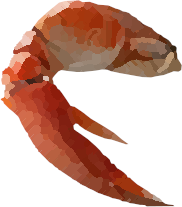
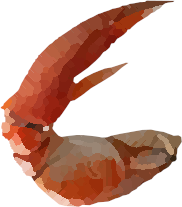
Transformations Animation Demo pt. 3

diff --git a/ImmersiveEngine/src/Main.cpp b/ImmersiveEngine/src/Main.cpp
@@ -54,10 +54,10 @@ GLfloat body[] =
 };
 GLfloat arm[] =
 {
-	-0.25f, 0.0f, 0.0f,	0.0f, 0.0f, 0.0f,	0.0f, 0.0f,
-	-0.25f, 0.5f, 0.0f,	0.0f, 0.0f,	0.0f,	0.0f, 1.0f,
-	0.25f, 0.0f, 0.0f,	0.0f, 0.0f,	0.0f,	1.0f, 0.0f,
-	0.25f, 0.5f, 0.0f,	0.0f, 0.0f,	0.0f,	1.0f, 1.0f,
+	-0.25f, -0.5f, 0.0f,	0.0f, 0.0f, 0.0f,	0.0f, 0.0f,
+	-0.25f, 0.0f, 0.0f,	0.0f, 0.0f,	0.0f,	0.0f, 1.0f,
+	0.25f, -0.5f, 0.0f,	0.0f, 0.0f,	0.0f,	1.0f, 0.0f,
+	0.25f, 0.0f, 0.0f,	0.0f, 0.0f,	0.0f,	1.0f, 1.0f,
 };
 
 GLuint rectangle[] =
@@ -112,6 +112,7 @@ int main()
     //std::cout << objA.toString();
 
 	Present crabBod(body, sizeof(body), rectangle, sizeof(rectangle));
+	crabBod.space.translate(Engine::Math::Vector3(0, -1, 0));
 	crabBod.setTexture("crab-body.png", GL_RGBA);
 
 	Present crabArmA(arm, sizeof(arm), rectangle, sizeof(rectangle));
@@ -119,11 +120,15 @@ int main()
 	Present crabArmB(arm, sizeof(arm), rectangle, sizeof(rectangle));
 	crabArmB.setTexture("crab-leg1.png", GL_RGBA);
 	
+	crabArmA.space.pivotOffset = Engine::Math::Vector3(0.125f, -0.25f, 0);
 	crabArmA.space.dialate(0.5f);
-	crabArmA.space.translate(Engine::Math::Vector2(-0.25f, 0.03f));
+	crabArmA.space.translate(Engine::Math::Vector2(-0.25f, -0.6f));
+	crabArmA.space.updateTransforms(shaderProgram);
 
+	crabArmB.space.pivotOffset = Engine::Math::Vector3(-0.125f, -0.25f, 0);
 	crabArmB.space.dialate(0.5f);
-	crabArmB.space.translate(Engine::Math::Vector2(0.25f, 0.03f));
+	crabArmB.space.translate(Engine::Math::Vector2(0.25f, -0.6f));
+	crabArmB.space.updateTransforms(shaderProgram);
 
 	while (!glfwWindowShouldClose(window))
 	{
@@ -134,22 +139,22 @@ int main()
 		glClear(GL_COLOR_BUFFER_BIT);
 		
         shaderProgram.Activate();
-        
+
         //objA.space.updateTransforms(shaderProgram);
         //objA.draw(shaderProgram);
 		
 		crabBod.space.updateTransforms(shaderProgram);
 		crabBod.draw(shaderProgram);
         
-		if (glfwGetKey(window, GLFW_KEY_D) == GLFW_PRESS)
-		{
-			crabArmA.space.rotate(0.1f);
-			crabArmB.space.rotate(0.1f);
-		}
-		else if (glfwGetKey(window, GLFW_KEY_A) == GLFW_PRESS)
+		if (glfwGetKey(window, GLFW_KEY_D) == GLFW_PRESS && crabArmA.space.orientation.z > -35)
 		{
 			crabArmA.space.rotate(-0.1f);
 			crabArmB.space.rotate(-0.1f);
+		}
+		else if (glfwGetKey(window, GLFW_KEY_A) == GLFW_PRESS && crabArmA.space.orientation.z < 35)
+		{
+			crabArmA.space.rotate(0.1f);
+			crabArmB.space.rotate(0.1f);
 		}
 
 		crabArmA.space.updateTransforms(shaderProgram);

diff --git a/ImmersiveEngine/src/Objects/Present.cpp b/ImmersiveEngine/src/Objects/Present.cpp
@@ -125,13 +125,17 @@ void Present::Space::updateTransforms(Shader shaderProgram)
 {
     m_matrix = glm::mat4(1.0f);
 
-    m_matrix = glm::translate(m_matrix, glm::vec3(position.x, position.y, position.z));
+    m_matrix = glm::translate(m_matrix, glm::vec3(position.x, position.y, position.z)); // Move x, y, z
     
-    m_matrix = glm::rotate(m_matrix, -glm::radians(orientation.x), glm::vec3(1.0f, 0.0f, 0.0f));
-    m_matrix = glm::rotate(m_matrix, -glm::radians(orientation.y), glm::vec3(0.0f, 1.0f, 0.0f));
-    m_matrix = glm::rotate(m_matrix, -glm::radians(orientation.z), glm::vec3(0.0f, 0.0f, 1.0f));
+    m_matrix = glm::translate(m_matrix, glm::vec3(pivotOffset.x, pivotOffset.y, pivotOffset.z)); // Apply rotation offset
 
-    m_matrix = glm::scale(m_matrix, glm::vec3(scale.x, scale.y, scale.z));
+    m_matrix = glm::rotate(m_matrix, glm::radians(orientation.x), glm::vec3(1.0f, 0.0f, 0.0f)); // Rotate x
+    m_matrix = glm::rotate(m_matrix, glm::radians(orientation.y), glm::vec3(0.0f, 1.0f, 0.0f)); // Rotate y
+    m_matrix = glm::rotate(m_matrix, glm::radians(orientation.z), glm::vec3(0.0f, 0.0f, 1.0f)); // Rotate z
+
+    m_matrix = glm::translate(m_matrix, -glm::vec3(pivotOffset.x, pivotOffset.y, pivotOffset.z)); // Revert rotation offset
+
+    m_matrix = glm::scale(m_matrix, glm::vec3(scale.x, scale.y, scale.z)); // Scale x, y, z
 
     shaderProgram.setMat4("transform", m_matrix);
 }
@@ -149,6 +153,7 @@ void Present::Space::translate(Engine::Math::Vector2 deltaPos)
 void Present::Space::rotate(Engine::Math::Vector3 deltaAngle)
 {
     orientation += deltaAngle;
+    //orientation = Engine::Math::coterminal(orientation);
 }
 void Present::Space::rotate(float deltaAngle)
 {

diff --git a/ImmersiveEngine/src/Math/Math.cpp b/ImmersiveEngine/src/Math/Math.cpp
@@ -1,0 +1,67 @@
+#include"Math.h"
+
+namespace Engine::Math
+{
+	float Math::coterminal(float angle)
+	{
+		if (angle > 360)
+		{
+			return angle - 360;
+		}
+		else if (angle < 0)
+		{
+			return 360 + angle;
+		}
+		return angle;
+	}
+	Vector3 Math::coterminal(Vector3 angle)
+	{
+		Vector3 cotAngle = angle;
+		if (angle.x > 360)
+		{
+			cotAngle.x -= 360;
+		}
+		else if (angle.x < 0)
+		{
+			cotAngle.x += 360;
+		}
+		if (angle.y > 360)
+		{
+			cotAngle.y -= 360;
+		}
+		else if (angle.y < 0)
+		{
+			cotAngle.y += 360;
+		}
+		if (angle.z > 360)
+		{
+			cotAngle.z -= 360;
+		}
+		else if (angle.z < 0)
+		{
+			cotAngle.z += 360;
+		}
+		return cotAngle;
+	}
+	Vector2 Math::coterminal(Vector2 angle)
+	{
+		Vector2 cotAngle = angle;
+		if (angle.x > 360)
+		{
+			cotAngle.x -= 360;
+		}
+		else if (angle.x < 0)
+		{
+			cotAngle.x += 360;
+		}
+		if (angle.y > 360)
+		{
+			cotAngle.y -= 360;
+		}
+		else if (angle.y < 0)
+		{
+			cotAngle.y += 360;
+		}
+		return cotAngle;
+	}
+}

diff --git a/ImmersiveEngine/src/Objects/Present.h b/ImmersiveEngine/src/Objects/Present.h
@@ -12,6 +12,7 @@
 #include"../Rendering/VBO.h"
 #include"../Rendering/EBO.h"
 #include"../Rendering/Texture.h"
+#include"../Math/Math.h"
 #include"../Math/Vector2.h"
 #include"../Math/Vector3.h"
 
@@ -27,6 +28,7 @@ class Present
                 
                 Engine::Math::Vector3 position;
                 Engine::Math::Vector3 orientation;
+                Engine::Math::Vector3 pivotOffset;
                 Engine::Math::Vector3 scale;
 
                 void updateTransforms(Shader shaderProgram);

diff --git a/ImmersiveEngine/src/Math/Math.h b/ImmersiveEngine/src/Math/Math.h
@@ -1,0 +1,14 @@
+#ifndef MATH_CLASS_H
+#define MATH_CLASS_H
+
+#include"Vector3.h"
+#include"Vector2.h"
+
+namespace Engine::Math
+{
+	float coterminal(float angle);
+	Vector3 coterminal(Vector3 angle);
+	Vector2 coterminal(Vector2 angle);
+}
+
+#endif
